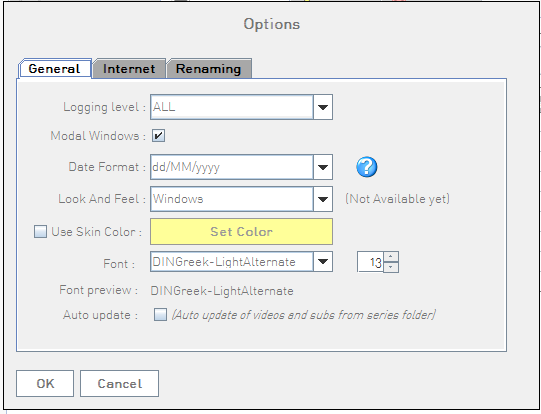
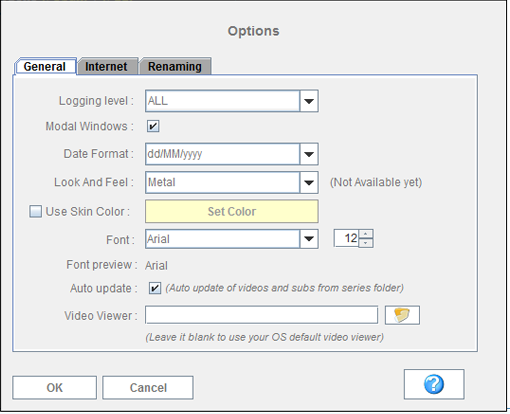
Help - Options

Changed region(s): [[0.0, 0.0, 1.0, 1.0], [0.7647, 0.8986, 0.7941, 0.9565]]

diff --git a/src/help/html/internet_options.html b/src/help/html/internet_options.html
@@ -13,9 +13,14 @@
           <b>Primary subtitle language - </b>
           The primary language to search when downloading subtitles
         </li>
-        <li>
+
+         <li>
           <b>Secondary subtitle language - </b>
           The secondary language to search when downloading subtitles
+        </li>
+         <li>
+          <b>Number of columns in feeds - </b>
+          You can select the number of columns shown in the feeds panel.
         </li>
         <li>
           <b>Proxy settings - </b>

diff --git a/src/help/html/general_options.html b/src/help/html/general_options.html
@@ -46,6 +46,11 @@
           scan in the series local directory is performed and video and subtitle 
           statuses are updated
         </li>
+         <li>
+          <b>Video viewer </b> -
+          You can choose the application used for viewing the videos or leave it blank
+          to use the OS default video viewer.
+        </li>
       </ul>
   </td></tr>
 </table>
